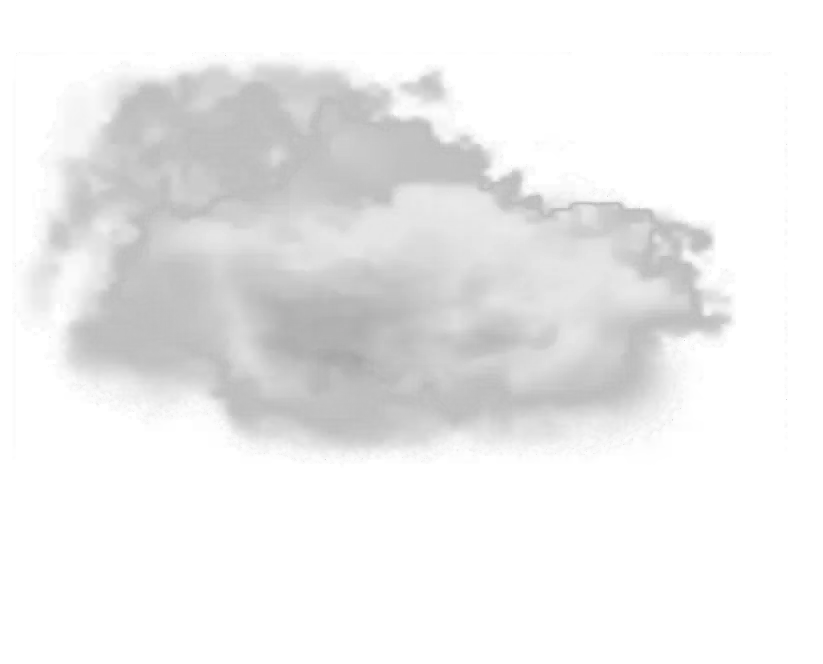
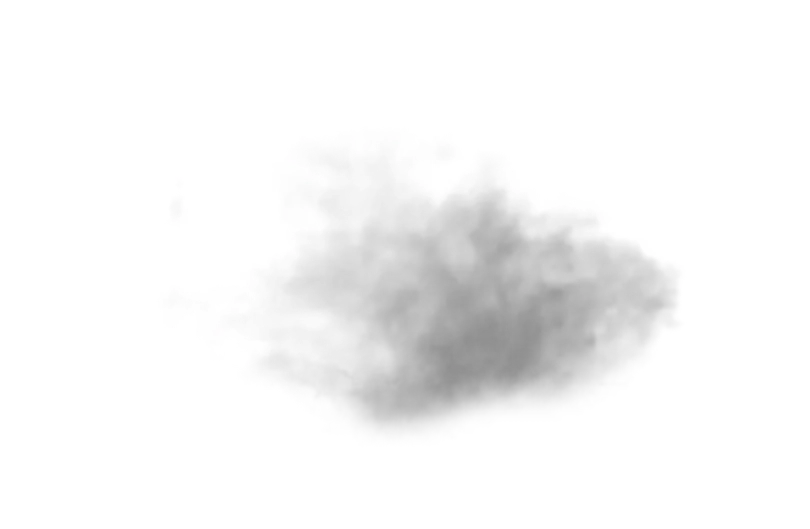
🚧  (Bokeh) Re-integrate bokeh

Changed region(s): [[0.0309, 0.0907, 0.8951, 0.8166], [0.8025, 0.5444, 0.8333, 0.6049]]

diff --git a/src/Scene.jsx b/src/Scene.jsx
@@ -321,11 +321,11 @@ const Scene = (props) => {
         </e.group>
 
       */}
-        <e.group theatreKey="Lake Louise Cloud">
+        <group>
           <Cloud scale={0.05} position={[-3.1, 1.76, 2.07]} />
-        </e.group>
+        </group>
 
-        <group theatreKey="Banff Cloud 2">
+        <group>
           <Cloud
             // works scale = -0.03
             // works position = [-2.7, 0.85, 2.30]
@@ -333,7 +333,7 @@ const Scene = (props) => {
             scale={0.03}
             // scale={cloudScale}
             //  position={[-0.8, 1.5, 2.6]}
-            position={[-2.7, 0.85, 2.3]}
+            position={[-2.7, 0.85, 1.6]}
             // position={[cloudPosX, cloudPosY, cloudPosZ]}
           />
         </group>
@@ -362,16 +362,16 @@ const Scene = (props) => {
       {/* @TODO: animate this for the stops? */}
       {/* {addEffect && ( */}
 
-      {/* <EffectComposer>
+      <EffectComposer>
         <DepthOfField
-          // focusDistance={0.0325} // where to focus
-          focusDistance={focusDistance}
-          // focalLength={0.065} // focal length
-          focalLength={focalLength}
-          // bokehScale={6} // bokeh size
-          bokehScale={bokehScale}
+          focusDistance={0.12} // where to focus
+          // focusDistance={focusDistance}
+          focalLength={0.09} // focal length
+          // focalLength={focalLength}
+          bokehScale={6} // bokeh size
+          // bokehScale={bokehScale}
         />
-      </EffectComposer> */}
+      </EffectComposer>
 
       {/* )} */}
     </>

diff --git a/src/IntroClouds.jsx b/src/IntroClouds.jsx
@@ -6,25 +6,26 @@ export const IntroClouds = ({ playIntro }) => (
       <img src="/images/cloud-intro.webp" alt="" />
     </div>
     <div className="cloud-intro__image">
-      <img src="/images/cloud05.webp" alt="" />
+      {/* <img src="/images/cloud1.webp" alt="" /> */}
+      <img src="/images/cloud3.webp" alt="" />
     </div>
     <div className="cloud-intro__image">
-      <img src="/images/cloud06.webp" alt="" />
+      <img src="/images/cloud1.webp" alt="" />
     </div>
     <div className="cloud-intro__image">
-      <img src="/images/cloud04.webp" alt="" />
+      <img src="/images/cloud2.webp" alt="" />
     </div>
     <div className="cloud-intro__image">
-      <img src="/images/cloud05.webp" alt="" />
+      <img src="/images/cloud1.webp" alt="" />
     </div>
     <div className="cloud-intro__image">
-      <img src="/images/cloud06.webp" alt="" />
+      <img src="/images/cloud2.webp" alt="" />
     </div>
     <div className="cloud-intro__image">
-      <img src="/images/cloud04.webp" alt="" />
+      <img src="/images/cloud1.webp" alt="" />
     </div>
     <div className="cloud-intro__image">
-      <img src="/images/cloud05.webp" alt="" />
+      <img src="/images/cloud3.webp" alt="" />
     </div>
     <div className="cloud-intro__background"></div>
   </div>

diff --git a/src/Experience.jsx b/src/Experience.jsx
@@ -141,7 +141,7 @@ const Experience = () => {
     },
     {
       name: "start",
-      position: 21.39,
+      position: 20.6,
       day: 2,
       name: null,
       hideFromItinerary: true,
@@ -151,7 +151,7 @@ const Experience = () => {
     },
     {
       name: "Lake Louise",
-      position: 19.45,
+      position: 22.09,
       day: 2,
       // name: "Carter-Ryan Gallery and Live Art Venue",
       details: {
@@ -163,7 +163,7 @@ const Experience = () => {
     },
     {
       name: "Lake Louise",
-      position: 19.45,
+      position: 24,
       day: 2,
       // name: "Johnston Canyon",
       details: {
@@ -389,6 +389,10 @@ const Experience = () => {
       setAttractionsOpen(true);
     }, 250);
   }, [index]);
+
+  // useEffect(() => {
+  //   setHasStarted(true);
+  // }, []);
 
   return (
     <div className="experience">

diff --git a/src/Clouds.jsx b/src/Clouds.jsx
@@ -69,11 +69,11 @@ function Cloud({
               scale: scale,
               rotation: [0, 0, 0],
             },
-            /*#__PURE__*/ React.createElement("meshStandardMaterial", {
+            /*#__PURE__*/ React.createElement("meshBasicMaterial", {
               map: cloudTexture,
               transparent: true,
               opacity: (scale / 6) * density * opacity,
-              depthTest: depthTest,
+              // depthTest: depthTest,
               color: color,
             })
           )

diff --git a/src/models/ImagePin.jsx b/src/models/ImagePin.jsx
@@ -116,6 +116,7 @@ const ImagePin = ({
             transparent
             url={imageSrc}
             opacity={opacity}
+            alphaTest={1}
             // opacity={0}
             // scale={1.33}
           />
@@ -139,7 +140,6 @@ const ImagePin = ({
         </mesh>
 
         <e.mesh
-          castShadow
           ref={backgroundRef}
           name={name}
           onPointerEnter={() => {
